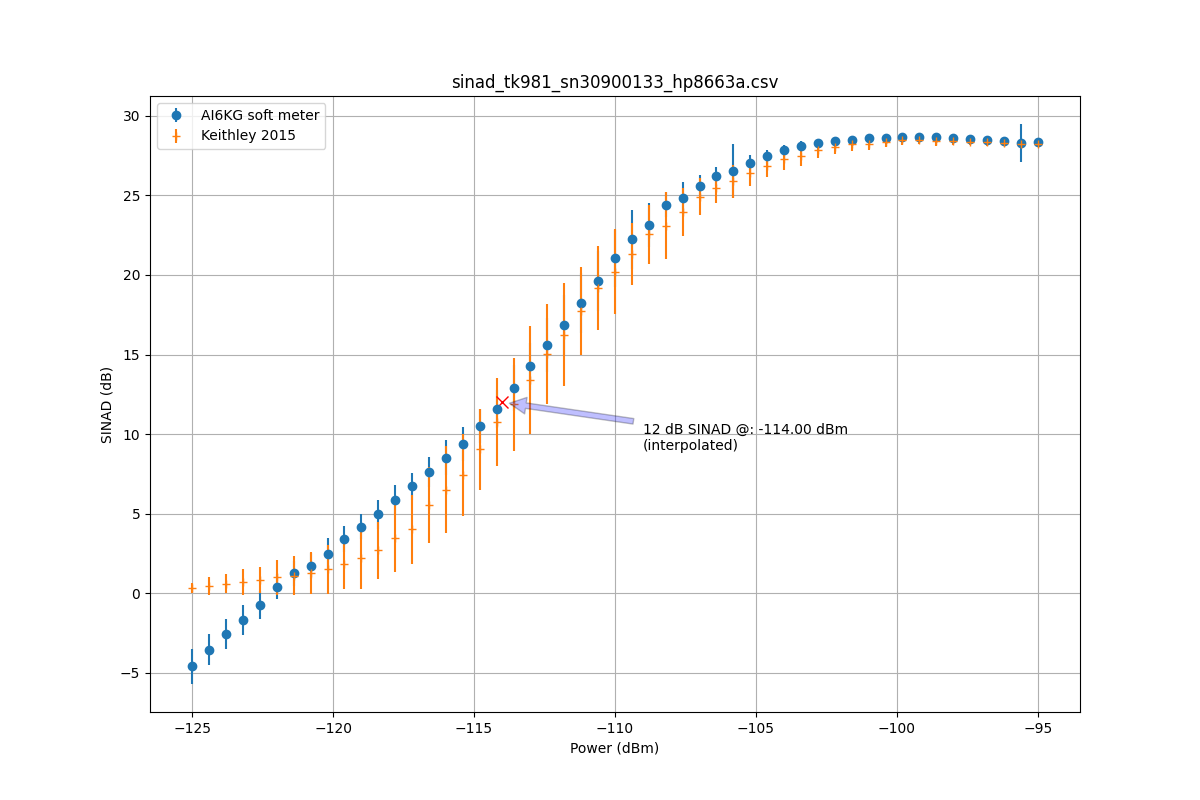
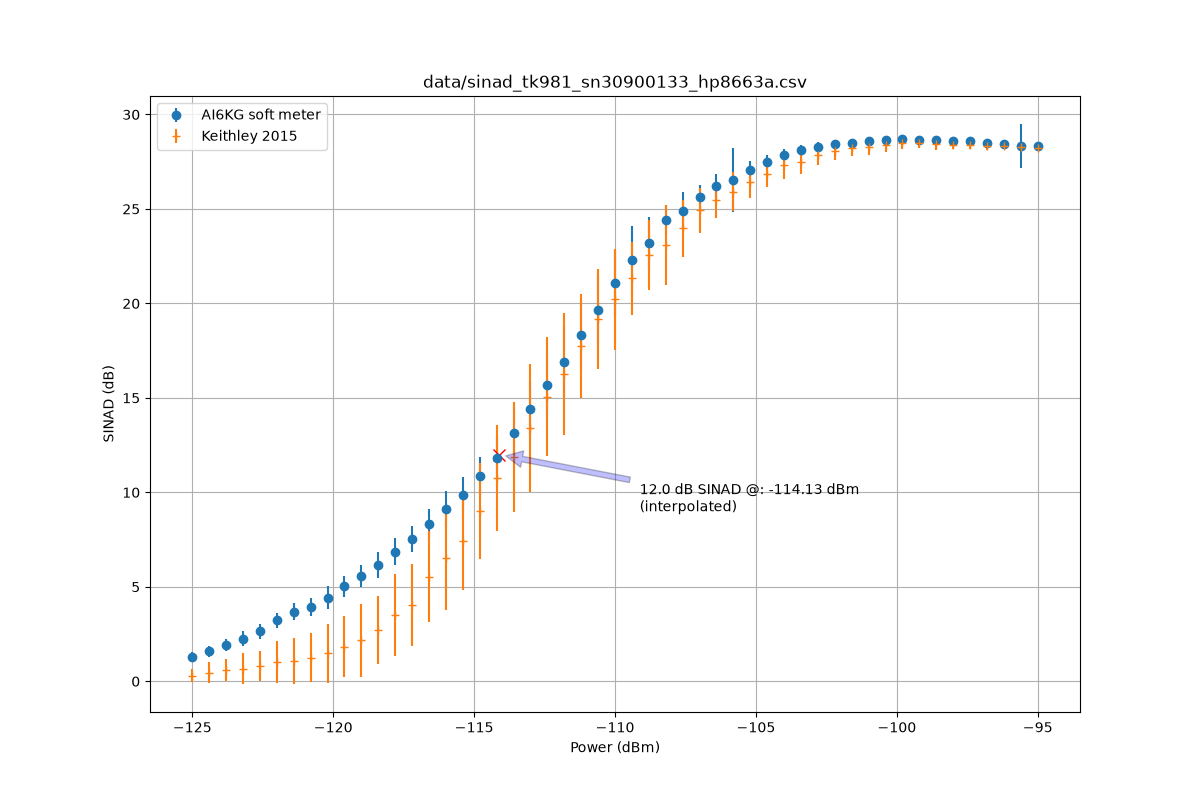
Convert the checked-in sweeps to the radio SINAD definition.
The originals keep their numbers under an _s_over_nd name; the
canonical names now hold the converted values, so the README plots show
a SINAD that no longer goes negative.  data/README.md gives the
transformation and its error.

diff --git a/data/README.md b/data/README.md
@@ -1,0 +1,27 @@
+# Sweeps
+
+`sinad_tk981_sn30900133_<generator>.csv` are SINAD sweeps of a TK981,
+serial 30900133, measured against a Keithley 2015, one per signal
+generator.
+
+The `_s_over_nd` files are the same sweeps as originally recorded, when
+this meter reported S/(N+D) -- MATLAB's and pysnr's definition, which
+can go negative and does, to -4.6 dB.  The files without that suffix are
+those numbers converted to (S+N+D)/(N+D), the radio definition the meter
+now reports and the one the Keithley columns were always in:
+
+    sinad_mean_dB -> 10*log10(1 + 10**(sinad_mean_dB/10))
+    sinad_std_dB  -> sinad_std_dB / (1 + 10**(-sinad_mean_dB/10))
+
+The second line propagates the error bars through the first, which
+compresses them where the correction is largest.
+
+Converting the recorded mean is not quite the mean of the converted
+readings, since the conversion is not linear, but over the ~1 dB spread
+of the 128 readings behind each point the difference is at most 0.027 dB,
+and 0.016 dB near the 12 dB sensitivity point.  The raw records were not
+kept, so this is as close as the old sweeps can be brought; anything
+measured from now on is recorded in the radio definition directly.
+
+The Keithley columns are untouched: it measures the radio definition, so
+it never needed converting.
